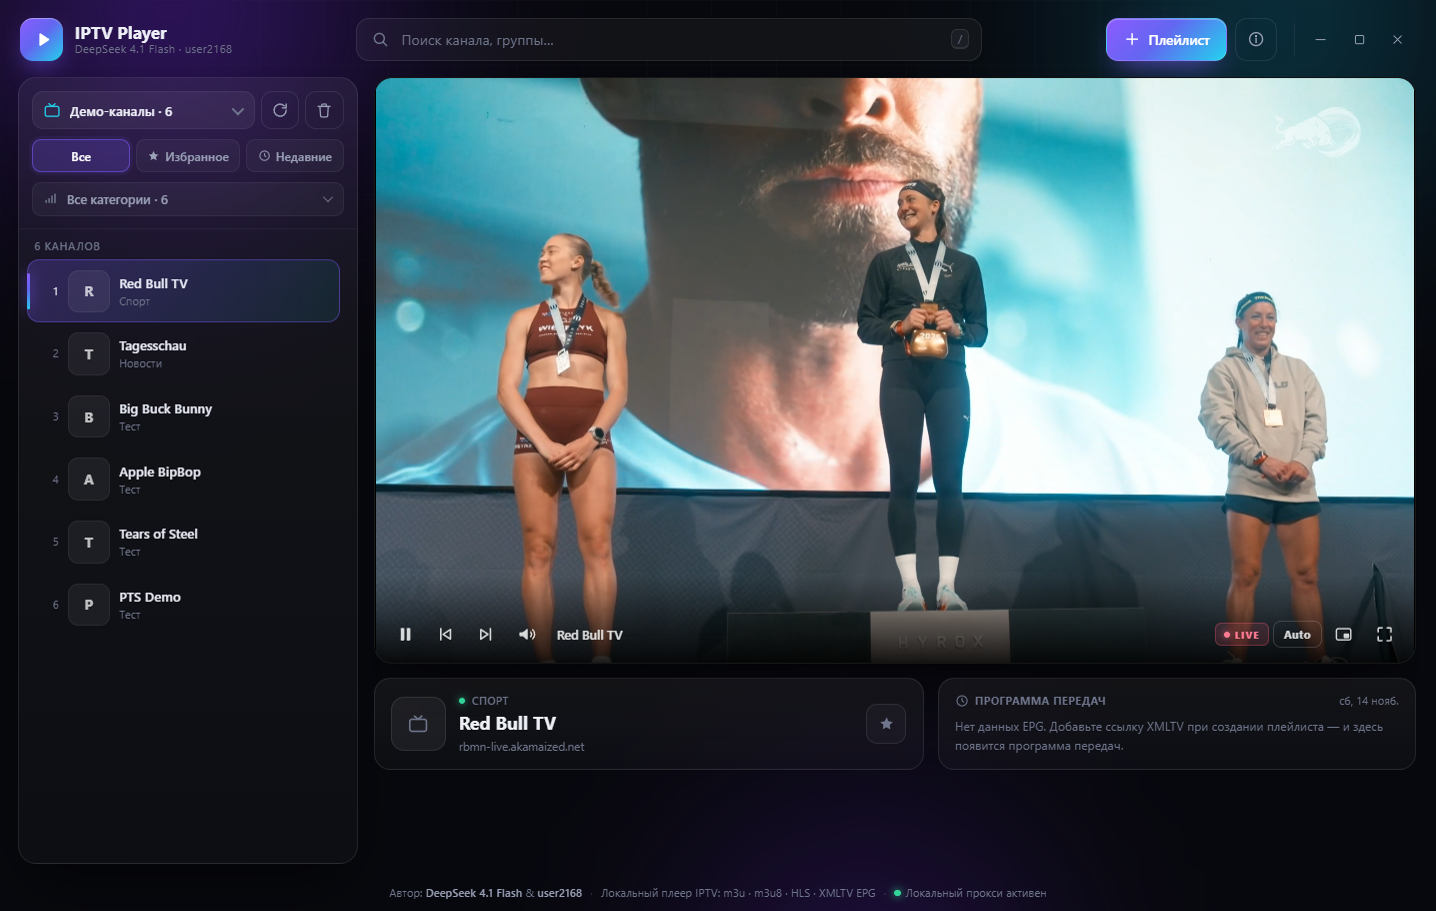
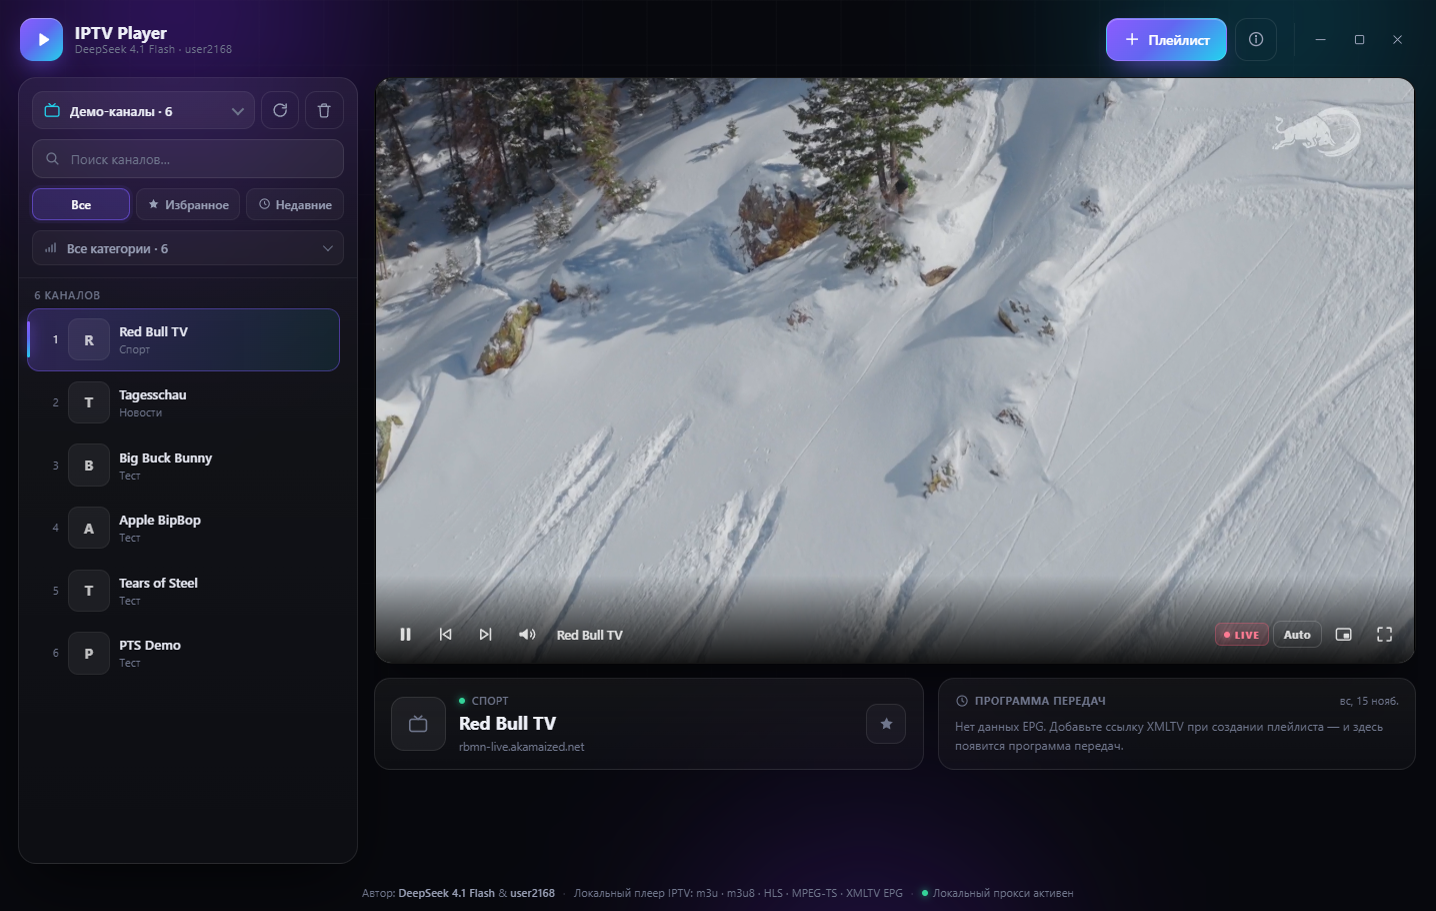
Add sidebar channel search, GitHub README and release notes

diff --git a/css/style.css b/css/style.css
@@ -119,7 +119,7 @@ button { font-family: inherit; }
 
 .topbar {
   display: grid;
-  grid-template-columns: minmax(210px, auto) minmax(240px, 1fr) auto;
+  grid-template-columns: minmax(210px, auto) 1fr;
   align-items: center;
   gap: 18px;
   padding: 4px 2px;
@@ -405,6 +405,46 @@ select {
 select option { background: #161824; color: var(--text); }
 
 .source-row .btn-icon { width: 38px; height: 38px; border-radius: 11px; }
+
+/* sidebar search */
+
+.sidebar-search {
+  display: flex;
+  align-items: center;
+  gap: 8px;
+  height: 38px;
+  padding: 0 8px 0 11px;
+  border-radius: 11px;
+  border: 1px solid var(--stroke);
+  background: rgba(255, 255, 255, 0.055);
+  transition: border-color 0.18s, background 0.18s, box-shadow 0.18s;
+}
+
+.sidebar-search .ico { color: var(--muted-2); width: 16px; height: 16px; }
+
+.sidebar-search input {
+  flex: 1;
+  min-width: 0;
+  height: 100%;
+  background: none;
+  border: 0;
+  outline: 0;
+  color: var(--text);
+  font-family: inherit;
+  font-size: 13px;
+}
+
+.sidebar-search input::placeholder { color: var(--muted-2); }
+
+.sidebar-search input::-webkit-search-cancel-button { -webkit-appearance: none; }
+
+.sidebar-search:focus-within {
+  border-color: rgba(124, 92, 255, 0.65);
+  background: rgba(124, 92, 255, 0.09);
+  box-shadow: 0 0 0 3px rgba(124, 92, 255, 0.12);
+}
+
+.sidebar-search:focus-within .ico { color: var(--accent-2); }
 
 .filters { display: flex; gap: 6px; }
 
@@ -1366,7 +1406,6 @@ select option { background: #161824; color: var(--text); }
   body { overflow: auto; }
   .app { height: auto; min-height: 100%; padding: 12px 12px 0; }
   .topbar { grid-template-columns: 1fr auto; gap: 10px; }
-  .search { grid-column: 1 / -1; grid-row: 2; max-width: none; }
   .layout { display: flex; flex-direction: column; min-height: auto; }
   .stage { order: -1; overflow: visible; }
   .sidebar { max-height: 60vh; min-height: 380px; }

diff --git a/js/app.js b/js/app.js
@@ -1297,16 +1297,32 @@ function bindEvents() {
   // search
   let searchTimer = 0;
   EL.search.addEventListener('input', () => {
+    EL.searchClear.hidden = !EL.search.value;
     clearTimeout(searchTimer);
     searchTimer = setTimeout(() => {
       state.query = EL.search.value;
+      EL.chanScroll.scrollTop = 0;
       renderChannels();
     }, 110);
   });
+
+  EL.searchClear.addEventListener('click', (event) => {
+    event.preventDefault();
+    event.stopPropagation();
+    EL.search.value = '';
+    state.query = '';
+    EL.searchClear.hidden = true;
+    EL.chanScroll.scrollTop = 0;
+    renderChannels();
+    EL.search.focus();
+  });
+
   EL.search.addEventListener('keydown', (event) => {
     if (event.key === 'Escape') {
       EL.search.value = '';
       state.query = '';
+      EL.searchClear.hidden = true;
+      EL.chanScroll.scrollTop = 0;
       renderChannels();
       EL.search.blur();
     }
@@ -1491,6 +1507,13 @@ function bindEvents() {
     const tag = document.activeElement?.tagName;
     const typing = tag === 'INPUT' || tag === 'TEXTAREA' || tag === 'SELECT' || document.activeElement?.isContentEditable;
     if (EL.addDialog.open || EL.aboutDialog.open) return;
+
+    if ((event.ctrlKey || event.metaKey) && (event.key === 'f' || event.key === 'F')) {
+      event.preventDefault();
+      EL.search.focus();
+      EL.search.select();
+      return;
+    }
 
     if (event.key === '/' && !typing) {
       event.preventDefault();

diff --git a/README.md b/README.md
@@ -1,43 +1,55 @@
 # IPTV Player
 
-Простой, красивый и удобный плеер IPTV-плейлистов для Windows.
-Автор: **DeepSeek 4.1 Flash** & **user2168**.
+**Простой, красивый и удобный IPTV-плеер для Windows.**
+m3u/m3u8 · HLS · MPEG-TS · Xtream Codes · XMLTV EPG · автоперекодирование FFmpeg.
+
+[![Release](https://img.shields.io/github/v/release/sanyuser2168/iptv-player?label=%D1%81%D0%BA%D0%B0%D1%87%D0%B0%D1%82%D1%8C)](https://github.com/sanyuser2168/iptv-player/releases/latest)
+[![Downloads](https://img.shields.io/github/downloads/sanyuser2168/iptv-player/total)](https://github.com/sanyuser2168/iptv-player/releases)
+![Platform](https://img.shields.io/badge/platform-Windows%2010%2F11-0078D6)
+
+Автор: **DeepSeek 4.1 Flash** & **user2168**
 
 ![скриншот](docs/screenshot.png)
 
-Перекодирование MPEG-2 на лету: ![транскодирование](docs/transcode.png)
+## Скачать
 
-## Готовый файл
+Готовая portable-версия — в разделе
+**[Releases](https://github.com/sanyuser2168/iptv-player/releases/latest)**:
 
 ```
-dist\IPTV-Player-1.0.0-x64.exe
+IPTV-Player-1.0.0-x64.exe   (~132 МБ)
 ```
 
-Portable-версия: установка не нужна, просто запустите `.exe`.
-Настройки, плейлисты и избранное сохраняются между запусками.
+Установка не нужна: скачайте и запустите `.exe`. Настройки, плейлисты,
+избранное и история сохраняются между запусками.
 
-> Файл не подписан цифровым сертификатом, поэтому Windows SmartScreen
-> может показать предупреждение — «Подробнее» → «Выполнить в любом случае».
+> Файл не подписан цифровым сертификатом, поэтому Windows SmartScreen может
+> показать предупреждение — «Подробнее» → «Выполнить в любом случае».
 
 ## Возможности
 
 - **Плейлисты:** ссылка на `.m3u` / `.m3u8`, локальный файл (в том числе
   перетаскиванием), Xtream Codes (`get.php?...type=m3u_plus`).
+- **Поиск каналов** в левой панели: по всем плейлистам сразу, с подсветкой
+  совпадений, счётчиком и очисткой. Горячие клавиши `/` и `Ctrl+F`.
 - **Форматы потоков:** HLS (`m3u8`) через hls.js, «сырой» MPEG-TS / FLV
   через mpegts.js, обычные `.mp4` / `.webm` / `.ogg`.
 - **Автоматическое перекодирование:** если канал вещает в HEVC/H.265,
-  MPEG-2, с аудио AC-3 или в другом неподдерживаемом кодеке — встроенный
-  FFmpeg на лету перекодирует поток в H.264/AAC (до 720p). Ничего
-  доустанавливать и настраивать не нужно.
-- **Библиотека:** виртуальный список каналов (десятки тысяч строк без
-  тормозов), логотипы, поиск, группы, избранное, недавние.
-- **EPG:** программа передач XMLTV (`xmltv.xml`, `.xml.gz`) — текущая и
+  MPEG-2, с аудио AC-3 или другим неподдерживаемым кодеком — встроенный
+  FFmpeg на лету перекодирует поток в H.264/AAC (до 720p).
+- **Библиотека:** виртуальный список (десятки тысяч каналов без тормозов),
+  логотипы, категории, избранное, недавние.
+- **EPG:** программа передач XMLTV (`.xml`, `.xml.gz`) — текущая и
   следующая передача, прогресс, подсказки в списке каналов.
-- **Плеер:** свои элементы управления, громкость, качество (Auto / 720p /
-  1080p…), PIP, полный экран, горячие клавиши.
+- **Плеер:** собственные элементы управления, громкость, выбор качества
+  (Auto / 720p / 1080p…), PIP, полный экран, горячие клавиши.
 - **Локальный прокси:** обходит CORS, подставляет User-Agent/Referer,
   понимает Basic Auth в ссылке, переписывает ссылки внутри HLS.
-- Всё хранится локально: `localStorage` + `IndexedDB`.
+- Всё хранится локально: `localStorage` + `IndexedDB`, без сторонних серверов.
+
+### Перекодирование MPEG-2 на лету
+
+![транскодирование](docs/transcode.png)
 
 ## Как добавить каналы
 
@@ -49,11 +61,8 @@ Portable-версия: установка не нужна, просто запу
 3. При желании укажите ссылку **EPG / XMLTV**.
 4. «Добавить».
 
-Если канал не открылся и появляется кнопка **«Перекодировать»** — плеер
-сам предложит перекодирование, обычно оно включается автоматически.
-
-Кнопка **«Демо-каналы»** на пустом экране добавляет публичные тестовые
-потоки (Red Bull TV, Tagesschau, Big Buck Bunny и др.).
+Если кодек канала не поддерживается, плеер сам включит перекодирование.
+Кнопка **«Демо-каналы»** на пустом экране добавляет публичные тестовые потоки.
 
 ## Горячие клавиши
 
@@ -62,8 +71,9 @@ Portable-версия: установка не нужна, просто запу
 | `Space` | пауза / воспроизведение |
 | `F` | полный экран |
 | `M` | звук |
-| `/` | поиск |
+| `/` или `Ctrl+F` | поиск каналов |
 | `←` / `→` | предыдущий / следующий канал |
+| `↑` / `↓` | громкость |
 
 ## Ограничения
 
@@ -76,16 +86,24 @@ Portable-версия: установка не нужна, просто запу
 
 ## Сборка из исходников
 
+Требования: Windows, [Node.js](https://nodejs.org) 20+.
+
 ```bash
 npm install
-npm run fetch-ffmpeg   # скачает bin/ffmpeg.exe (~100 МБ)
+npm run fetch-ffmpeg   # скачает bin/ffmpeg.exe (~100 МБ, нужен для транскодинга)
 npm run dist           # dist/IPTV-Player-1.0.0-x64.exe (portable)
-npm run app            # запуск Electron-версии без сборки
-npm start              # браузерный режим: http://127.0.0.1:8787
-npm run smoke          # автотест интерфейса + скриншоты
 ```
 
-Структура:
+Полезные команды:
+
+```bash
+npm run app      # запуск Electron-версии без сборки
+npm start        # браузерный режим: http://127.0.0.1:8787
+npm run smoke    # автотест интерфейса + скриншоты
+node build/test-m3u.mjs
+```
+
+### Структура
 
 ```
 electron/   оболочка Electron (окно, IPC, smoke-тест)
@@ -95,12 +113,24 @@ vendor/     hls.js, mpegts.js
 bin/        ffmpeg.exe (не хранится в git, скачивается скриптом)
 server.js   локальный сервер, прокси, транскодирование
 build/      иконка и служебные скрипты
+ci/         шаблон GitHub Actions (нужен scope workflow)
 ```
 
-Лицензии сторонних компонентов — в [THIRD_PARTY_NOTICES.md](THIRD_PARTY_NOTICES.md).
-FFmpeg распространяется по GPL v3.
+## Лицензии
+
+Сторонние компоненты перечислены в [THIRD_PARTY_NOTICES.md](THIRD_PARTY_NOTICES.md).
+FFmpeg распространяется по лицензии GPL v3 и запускается как отдельный процесс.
 
 ## Где хранятся данные
 
 `%APPDATA%\IPTV Player` — профиль Electron (localStorage, IndexedDB).
-Удаление папки сбрасывает все плейлисты и настройки.
+Удаление папки сбрасывает плейлисты и настройки.
+
+---
+
+### English (short)
+
+A lightweight, good-looking IPTV player for Windows: M3U/M3U8/HLS,
+raw MPEG-TS, Xtream Codes, XMLTV EPG, favorites, cross-playlist search and
+automatic FFmpeg transcoding for unsupported codecs (HEVC, MPEG-2, AC-3).
+Portable build — see [Releases](https://github.com/sanyuser2168/iptv-player/releases).

diff --git a/build/release-notes.md b/build/release-notes.md
@@ -1,0 +1,20 @@
+## IPTV Player 1.0.0
+
+Первый публичный релиз.
+
+### Что внутри
+- Portable `.exe` для Windows 10/11 (установка не нужна).
+- Плейлисты m3u/m3u8, Xtream Codes, локальные файлы.
+- HLS (hls.js) и «сырой» MPEG-TS/FLV (mpegts.js).
+- Автоматическое перекодирование FFmpeg для HEVC/H.265, MPEG-2 и AC-3.
+- XMLTV EPG: текущая и следующая передача.
+- Поиск по всем плейлистам с подсветкой совпадений.
+- Избранное, недавние, категории, виртуальный список каналов.
+- Локальный прокси: CORS, User-Agent, Referer, Basic Auth, HLS-манифесты.
+
+### Запуск
+1. Скачайте `IPTV-Player-1.0.0-x64.exe`.
+2. Запустите (SmartScreen → «Подробнее» → «Выполнить»).
+3. «Плейлист» → добавьте ссылку, файл или Xtream-доступ.
+
+Автор: DeepSeek 4.1 Flash & user2168
